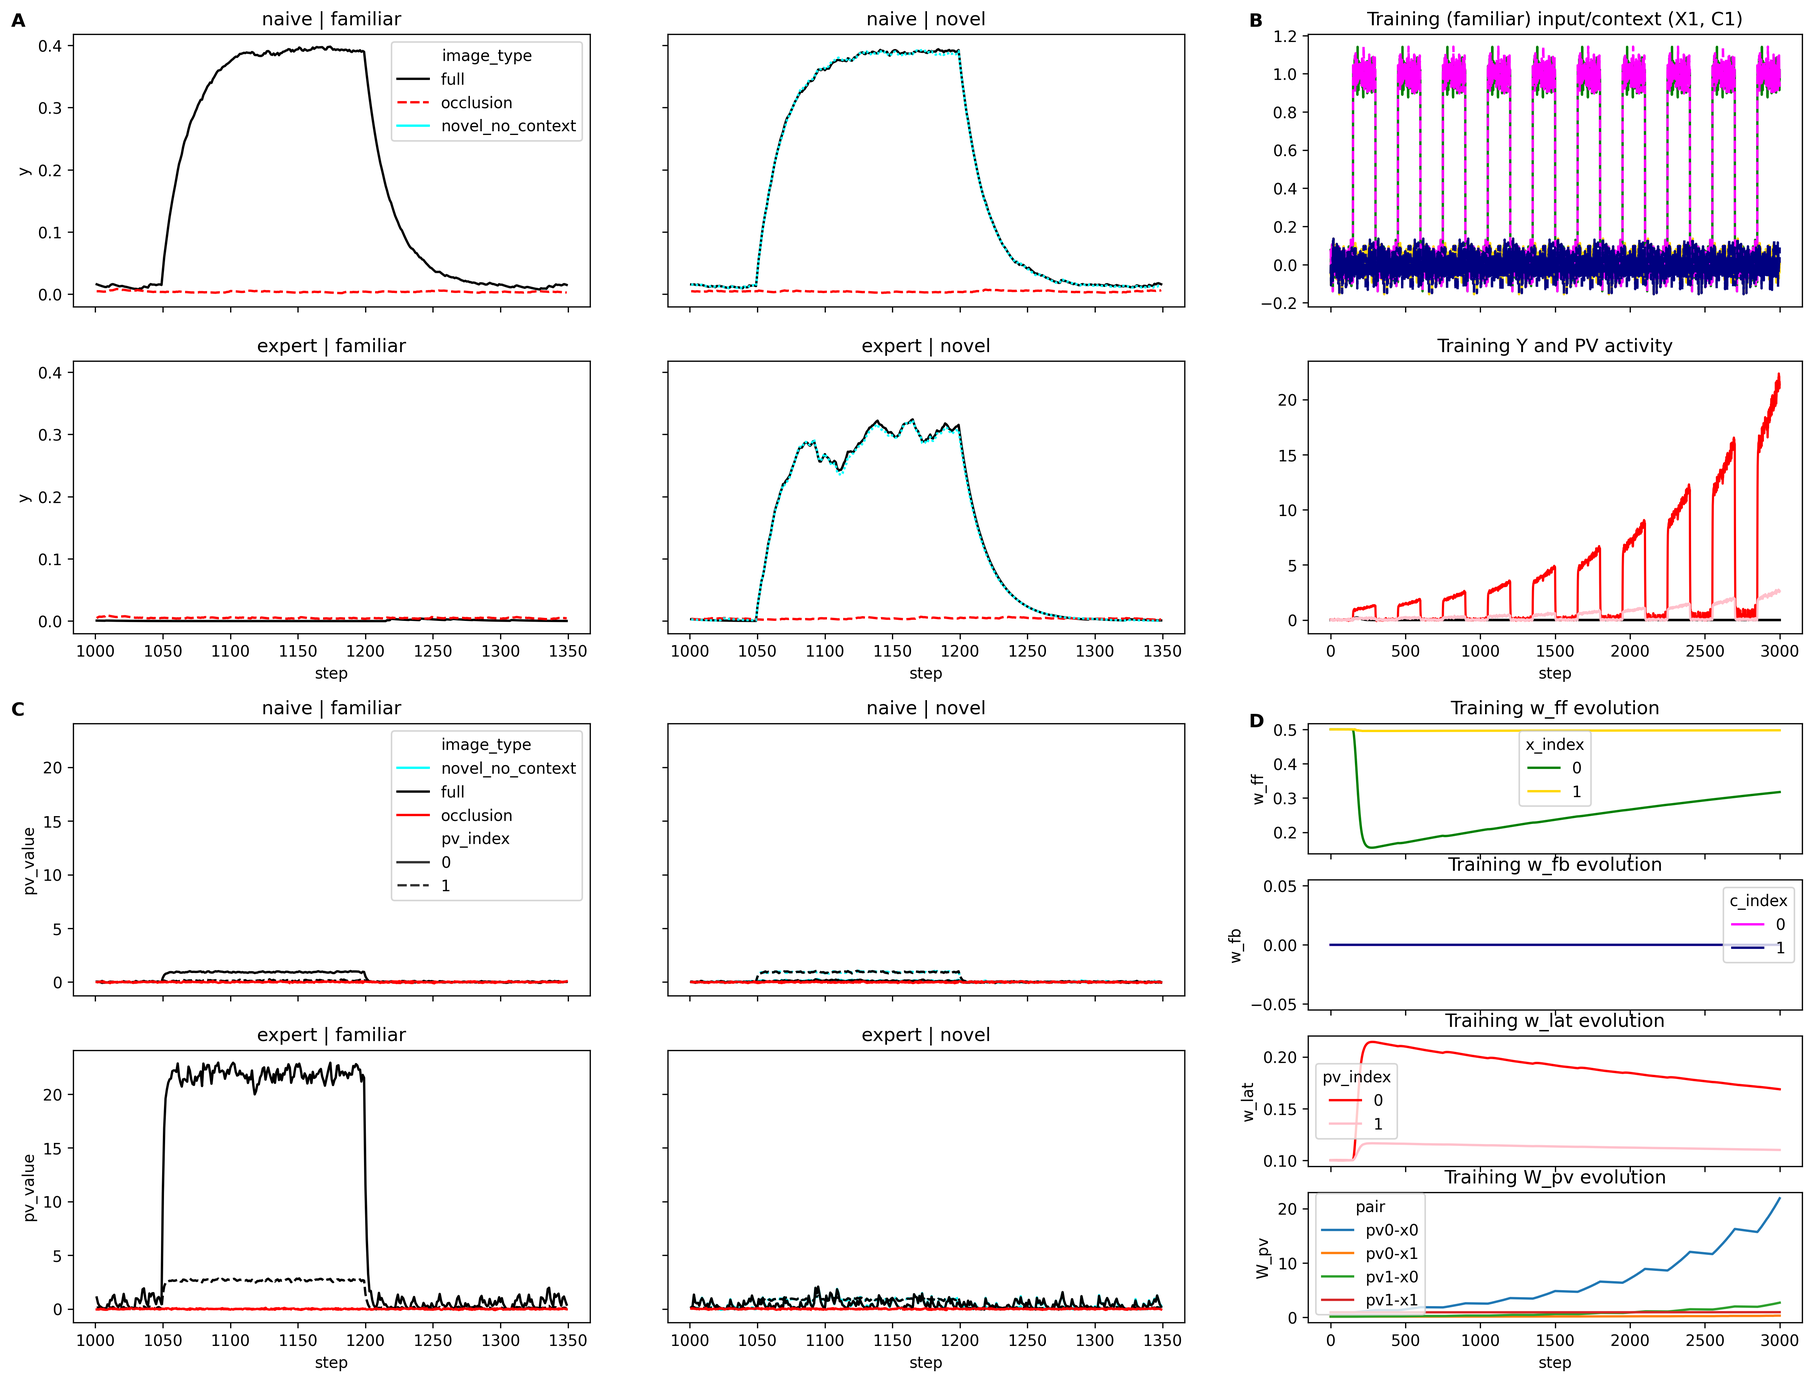
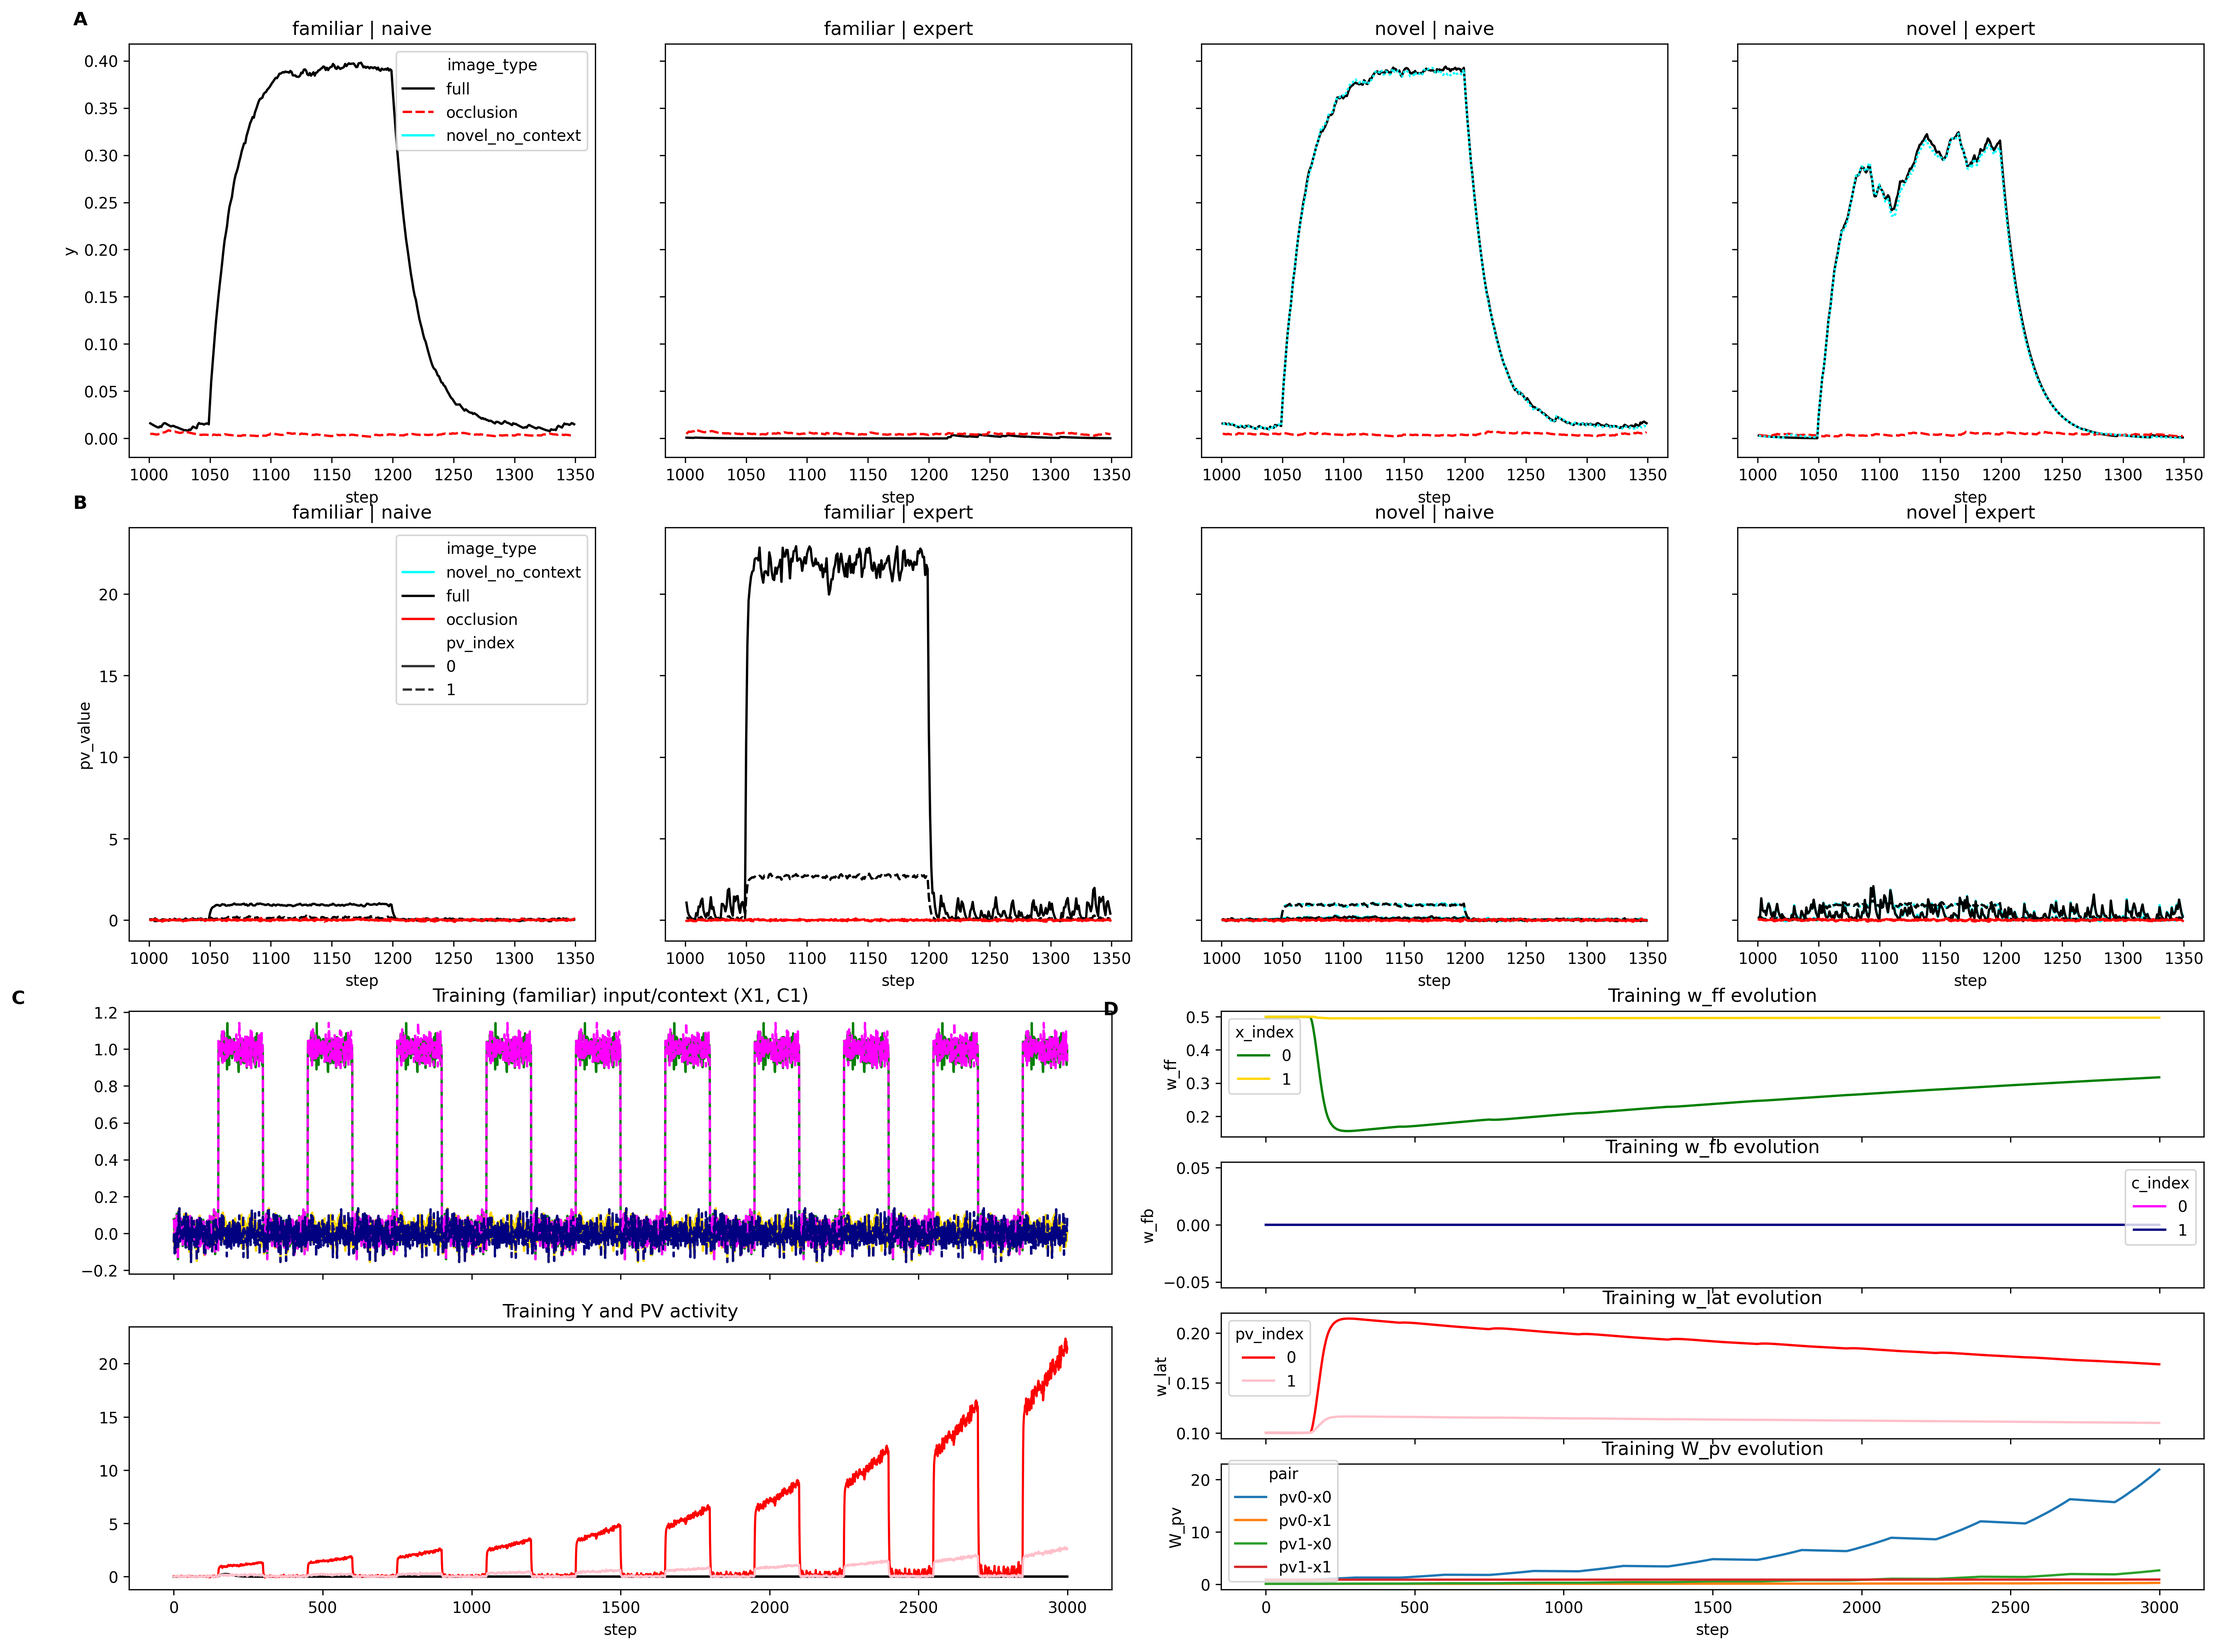
reformat plotting for minimal model results

diff --git a/cc/minimal/visualize.py b/cc/minimal/visualize.py
@@ -23,7 +23,7 @@ def visualize_naive_expert_results(long_df:DataFrame, STIMULI:dict[str, tuple[to
     pre_post_df = long_df.loc[long_df["experiment_phase"].isin(["naive", "expert"])].copy()
     phases = [p for p in ["naive", "expert"] if p in pre_post_df["experiment_phase"].unique()]
     image_types = sorted(pre_post_df["image_type"].dropna().unique().tolist()) if "image_type" in pre_post_df.columns else []
-    conditions = sorted(pre_post_df["condition"].dropna().unique().tolist()) if "condition" in pre_post_df.columns else []
+    conditions = [c for c in ["familiar", "novel"] if c in pre_post_df["condition"].dropna().unique()] if "condition" in pre_post_df.columns else []
     y_df = pre_post_df[["step", "y", "condition", "experiment_phase", "image_type"]].drop_duplicates()
     pv_df = pre_post_df[["step", "pv_value", "pv_index", "condition", "experiment_phase", "image_type"]].drop_duplicates()
     training_rows = long_df.loc[long_df["experiment_phase"].eq("training")].copy()
@@ -41,19 +41,20 @@ def visualize_naive_expert_results(long_df:DataFrame, STIMULI:dict[str, tuple[to
         weight_rows = training_rows.copy()
 
     builder = FigureBuilder.from_matrix(
-        [["A", "A", "B"],
-         ["C", "C", "D"]],
-        figsize=(20, 15),
+        [["A", "A", "A", "A"],
+         ["B", "B", "B", "B"],
+         ["C", "C", "D", "D"]],
+        figsize=(24, 18),
+        height_ratios=[1.0, 1.0, 1.4],
         constrained_layout=False,
         grid_wspace=0.25,
         grid_hspace=0.15,
         subfigure_wspace=0.15,
         subfigure_hspace=0.2,
     )
-    # builder.update_panel("A", subgrid=(3, 2), title=None, label=None)
-    builder.update_panel("A", subgrid=(len(phases), len(conditions)), title="Y activity", label="A")
-    builder.update_panel("B", subgrid=(2, 1), title="Y and PV activity over training", label="B")
-    builder.update_panel("C", subgrid=(len(phases), len(conditions)), title="PV activity", label="C")
+    builder.update_panel("A", subgrid=(1, len(conditions) * len(phases)), title="Y activity", label="A")
+    builder.update_panel("B", subgrid=(1, len(conditions) * len(phases)), title="PV activity", label="B")
+    builder.update_panel("C", subgrid=(2, 1), title="Y and PV activity over training", label="C")
     builder.update_panel("D", subgrid=(4, 1), title="Weight evolution over training", label="D")
 
     x_colors = {0: "green", 1: "gold"}
@@ -95,75 +96,69 @@ def visualize_naive_expert_results(long_df:DataFrame, STIMULI:dict[str, tuple[to
     X2 = _ensure_two_channels(X2)
     C2 = _ensure_two_channels(C2)
 
+    activity_layout = [(condition, phase) for condition in conditions for phase in phases]
+
     def plot_y(ax_grid, _):
-        for i in range(len(phases)):
-            for j in range(len(conditions)):
-                if i == 0 and j == 0:
-                    continue
-                ax_grid[i, j].sharey(ax_grid[0, 0])
-        for i, phase in enumerate(phases):
-            for j, condition in enumerate(conditions):
-                ax = ax_grid[i, j]
-                cell = y_df[(y_df["experiment_phase"] == phase) & (y_df["condition"] == condition)]
-                cell = cell.loc[(cell.step > 1000) & (cell.step < 1350)]
-                if cell.empty:
-                    ax.set_visible(False)
-                    continue
-                sns.lineplot(
-                    data=cell,
-                    x="step",
-                    y="y",
-                    hue="image_type",
-                    hue_order=[k for k in ["full", "occlusion", "novel_no_context"] if k in image_types],
-                    style="image_type",
-                    palette=image_colors,
-                    errorbar=None,
-                    ax=ax,
-                    legend=(i == 0 and j == 0),
-                )
-                ax.set_title(f"{phase} | {condition}")
-                if 'un_un' in name:
-                    ax.set_ylim(0, 0.3)
-                if i < len(phases) - 1:
-                    ax.set_xlabel("")
-                    ax.tick_params(labelbottom=False)
-                if j > 0:
-                    ax.set_ylabel("")
-                    ax.tick_params(labelleft=False)
+        flat_axes = np.asarray(ax_grid).reshape(-1)
+        if flat_axes.size == 0:
+            return
+        for ax in flat_axes[1:]:
+            ax.sharey(flat_axes[0])
+        for idx, (condition, phase) in enumerate(activity_layout):
+            ax = flat_axes[idx]
+            cell = y_df[(y_df["experiment_phase"] == phase) & (y_df["condition"] == condition)]
+            cell = cell.loc[(cell.step > 1000) & (cell.step < 1350)]
+            if cell.empty:
+                ax.set_visible(False)
+                continue
+            sns.lineplot(
+                data=cell,
+                x="step",
+                y="y",
+                hue="image_type",
+                hue_order=[k for k in ["full", "occlusion", "novel_no_context"] if k in image_types],
+                style="image_type",
+                palette=image_colors,
+                errorbar=None,
+                ax=ax,
+                legend=(idx == 0),
+            )
+            ax.set_title(f"{condition} | {phase}")
+            if 'un_un' in name:
+                ax.set_ylim(0, 0.3)
+            if idx > 0:
+                ax.set_ylabel("")
+                ax.tick_params(labelleft=False)
 
     def plot_pv(ax_grid, _):
-        for i in range(len(phases)):
-            for j in range(len(conditions)):
-                if i == 0 and j == 0:
-                    continue
-                ax_grid[i, j].sharey(ax_grid[0, 0])
-        for i, phase in enumerate(phases):
-            for j, condition in enumerate(conditions):
-                ax = ax_grid[i, j]
-                cell = pv_df[(pv_df["experiment_phase"] == phase) & (pv_df["condition"] == condition)]
-                cell = cell.loc[(cell.step > 1000) & (cell.step < 1350)]
-                if cell.empty:
-                    ax.set_visible(False)
-                    continue
-                sns.lineplot(
-                    data=cell,
-                    x="step",
-                    y="pv_value",
-                    hue="image_type",
-                    hue_order=[k for k in ["novel_no_context","full", "occlusion"] if k in image_types],
-                    palette=image_colors,
-                    style="pv_index",
-                    errorbar=None,
-                    ax=ax,
-                    legend=(i == 0 and j == 0),
-                )
-                ax.set_title(f"{phase} | {condition}")
-                if i < len(phases) - 1:
-                    ax.set_xlabel("")
-                    ax.tick_params(labelbottom=False)
-                if j > 0:
-                    ax.set_ylabel("")
-                    ax.tick_params(labelleft=False)
+        flat_axes = np.asarray(ax_grid).reshape(-1)
+        if flat_axes.size == 0:
+            return
+        for ax in flat_axes[1:]:
+            ax.sharey(flat_axes[0])
+        for idx, (condition, phase) in enumerate(activity_layout):
+            ax = flat_axes[idx]
+            cell = pv_df[(pv_df["experiment_phase"] == phase) & (pv_df["condition"] == condition)]
+            cell = cell.loc[(cell.step > 1000) & (cell.step < 1350)]
+            if cell.empty:
+                ax.set_visible(False)
+                continue
+            sns.lineplot(
+                data=cell,
+                x="step",
+                y="pv_value",
+                hue="image_type",
+                hue_order=[k for k in ["novel_no_context", "full", "occlusion"] if k in image_types],
+                palette=image_colors,
+                style="pv_index",
+                errorbar=None,
+                ax=ax,
+                legend=(idx == 0),
+            )
+            ax.set_title(f"{condition} | {phase}")
+            if idx > 0:
+                ax.set_ylabel("")
+                ax.tick_params(labelleft=False)
 
     def plot_panel_a(ax_grid, _):
         sketch_dir = os.path.join(os.path.dirname(os.path.dirname(__file__)), "model_sketches")
@@ -327,9 +322,9 @@ def visualize_naive_expert_results(long_df:DataFrame, STIMULI:dict[str, tuple[to
                 ax_grid[i, 0].tick_params(labelbottom=False)
 
     # builder.set_plotter("A", plot_panel_a)
-    builder.set_plotter("A", plot_y) 
-    builder.set_plotter("B", plot_training_activity)
-    builder.set_plotter("C", plot_pv)
+    builder.set_plotter("A", plot_y)
+    builder.set_plotter("B", plot_pv)
+    builder.set_plotter("C", plot_training_activity)
     builder.set_plotter("D", plot_weight_evolution)
 
     os.makedirs(save_path, exist_ok=True)
